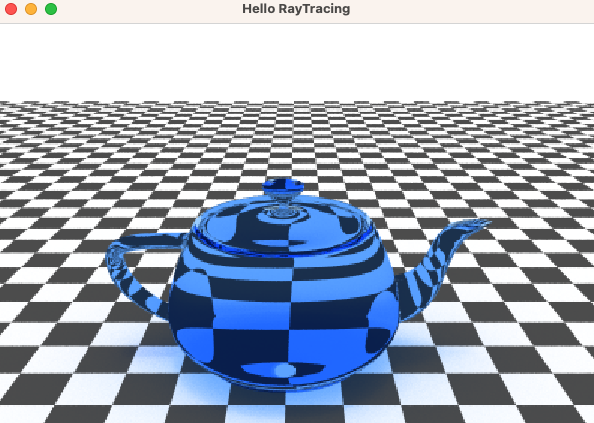
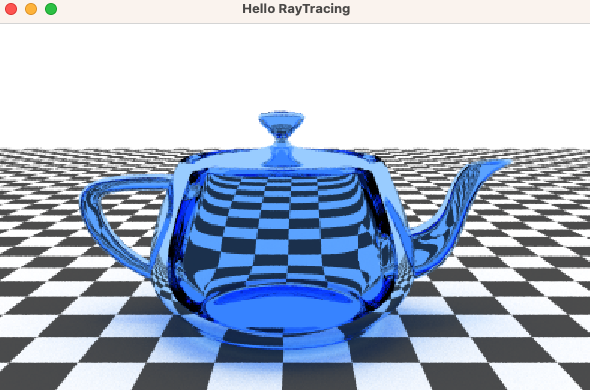
fix water refraction index

diff --git a/example/teapot_world.hpp b/example/teapot_world.hpp
@@ -84,7 +84,7 @@ public:
     this->insert( {&geometries.floor2, &reflections.floor} );
     for( auto &t : geometries.teapot )
     {
-      this->insert( {&t, &reflections.diffusive} );
+      this->insert( {&t, &reflections.water_refragtion} );
     }
     reflections.fuzzy_mirror.fuzzyness = 0.05f;
     reflections.fuzzy_mirror.sample_count = 5;
@@ -106,7 +106,7 @@ public:
     reflections.diffusive.sample_count = 10;
 
     reflections.water_refragtion.color = eh::vec3( 0.6f, 0.8f, 1.0f );
-    reflections.water_refragtion.index = 0.85f;
+    reflections.water_refragtion.index = 1.15f;
 
     reflections.mirror.color = eh::vec3( 0.8f, 0.8f ,0.8f );
 

diff --git a/src/world.hpp b/src/world.hpp
@@ -149,6 +149,7 @@ public:
         if( c.first.raycast(ray, tmin, tmax) == false ){ continue; }
         if( cur.t < tmin ){ continue; }
         auto raycast_result = c.second.geometry->raycast( ray );
+        if( std::abs(raycast_result.normal.dot(ray.direction())) < GeometryObject::EPSILON ){ continue; }
         if( raycast_result.surface && raycast_result.t < cur.t )
         {
           cur = raycast_result;
